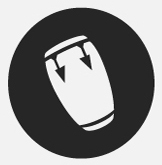
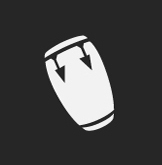
Hypnotic conga

diff --git a/style.css b/style.css
@@ -1,5 +1,5 @@
 body {
-  background-color: #F2F2F2;
+  background-color: #262626;
 }
 
 .logo {
@@ -8,4 +8,12 @@ body {
   top: 0; left: 0; bottom: 0; right: 0;
   width: 20%;
   max-width: 160px;
+
+  -webkit-animation:spin 4s linear infinite;
+  -moz-animation:spin 4s linear infinite;
+  animation:spin 4s linear infinite;
 }
+
+@-moz-keyframes spin { 100% { -moz-transform: rotate(360deg); } }
+@-webkit-keyframes spin { 100% { -webkit-transform: rotate(360deg); } }     
+@keyframes spin { 100% { -webkit-transform: rotate(360deg); transform:rotate(360deg); } }
